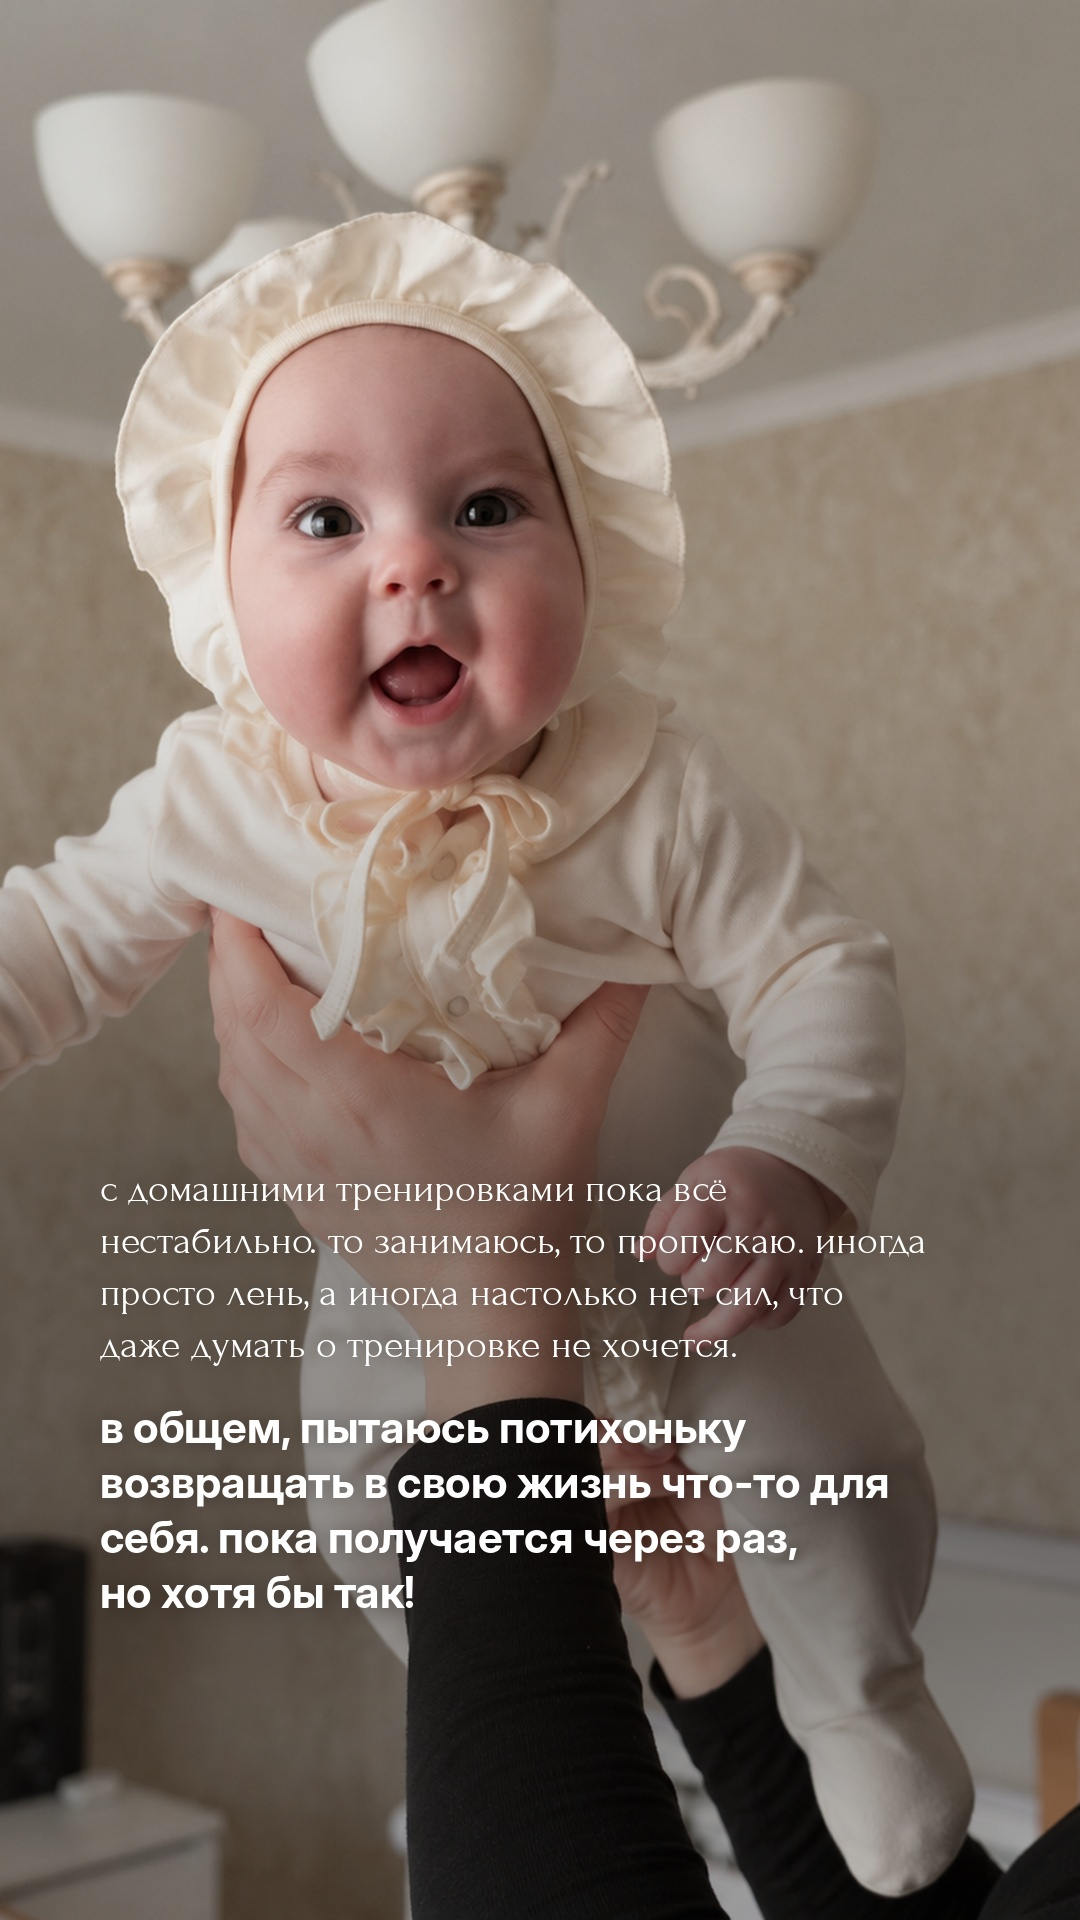
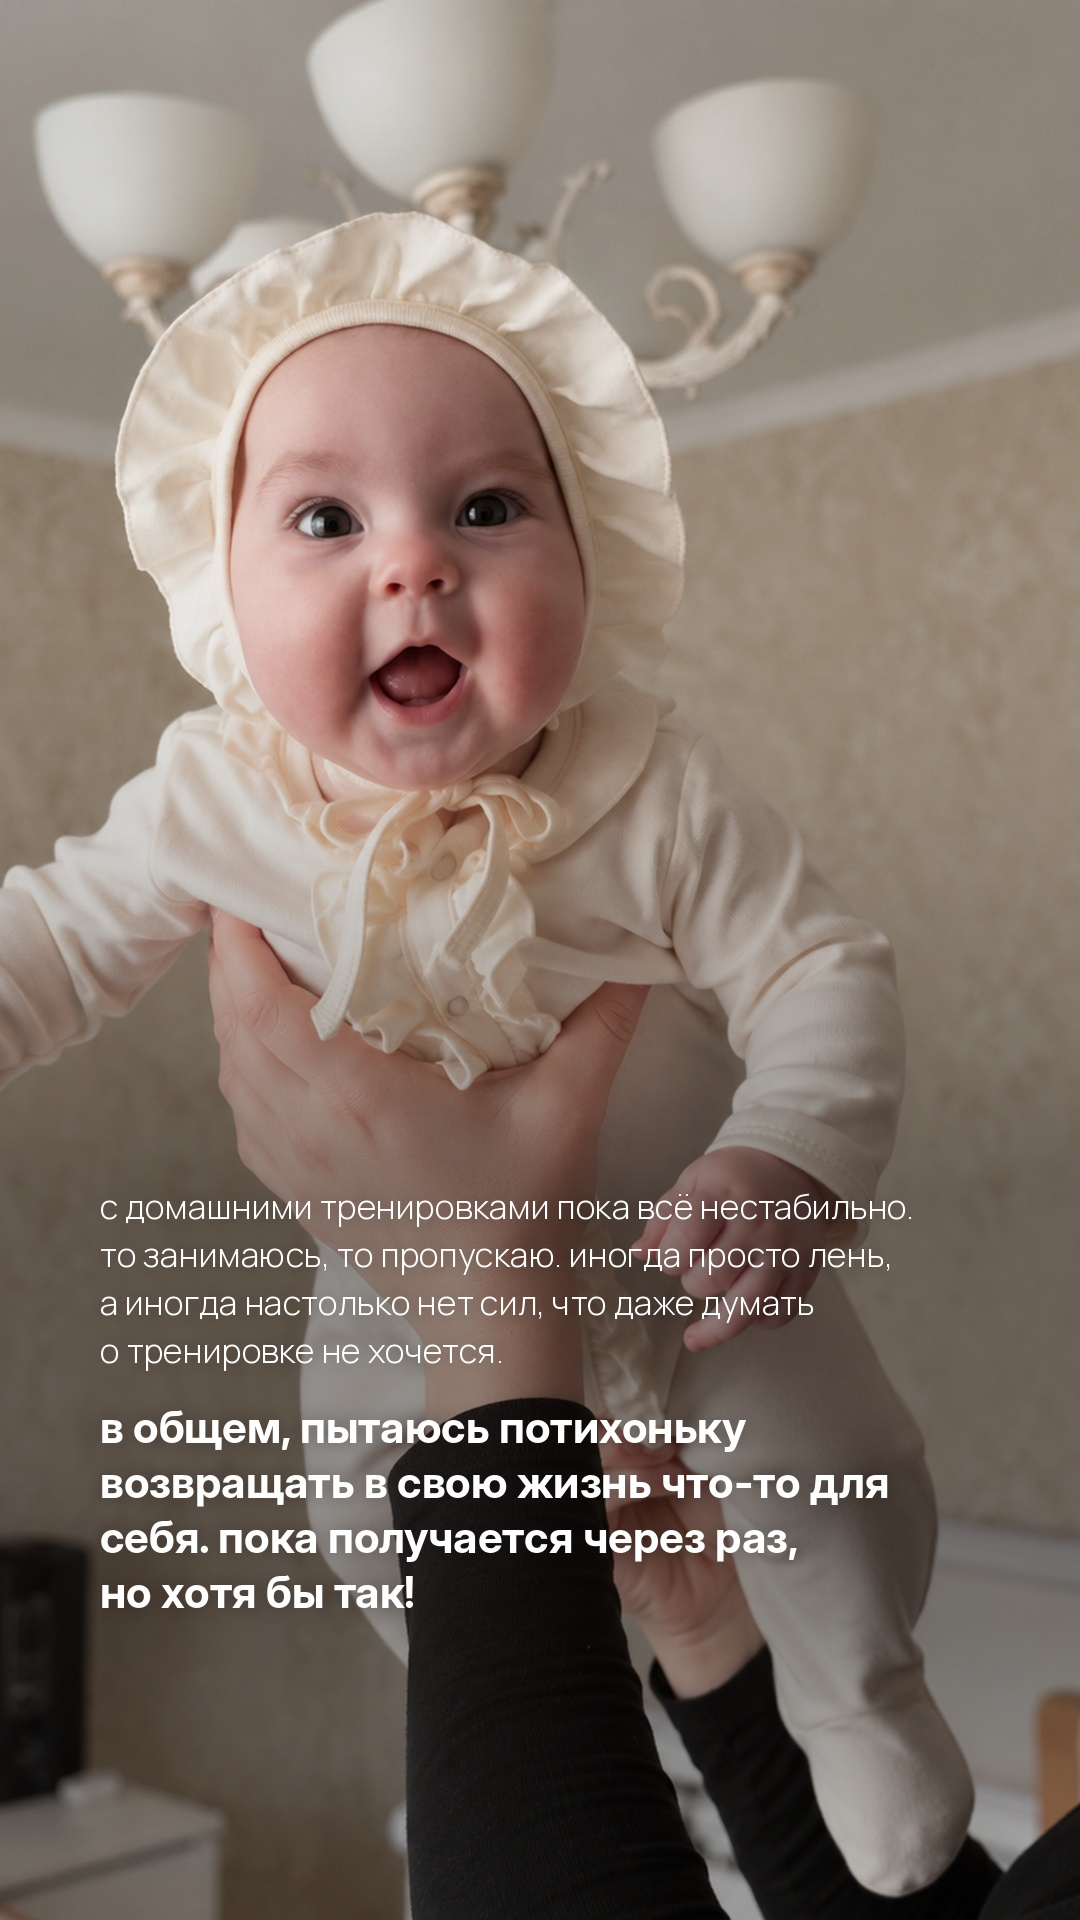
Slide 6: body text back to Manrope Light like the other stories
Claude-Session: https://claude.ai/code/session_01RmuGDShBWvqdqqGxFycib9

Changed region(s): [[0.0917, 0.5938, 0.8556, 0.7188]]

diff --git a/tools/stories_morkovka.py b/tools/stories_morkovka.py
@@ -119,7 +119,7 @@ SLIDES = [
         "groups": [{
             "anchor": ("bottom", 1620), "x": 100, "width": 830, "align": "left",
             "blocks": [
-                ("serif", f"с домашними тренировками пока всё нестабильно. то занимаюсь, "
+                ("light", f"с домашними тренировками пока всё нестабильно. то занимаюсь, "
                           f"то пропускаю. иногда просто лень, а{NB}иногда настолько нет сил, что "
                           f"даже думать о{NB}тренировке не{NB}хочется.", {}),
                 ("bold", f"в общем, пытаюсь потихоньку возвращать в{NB}свою жизнь что-то для себя. "
